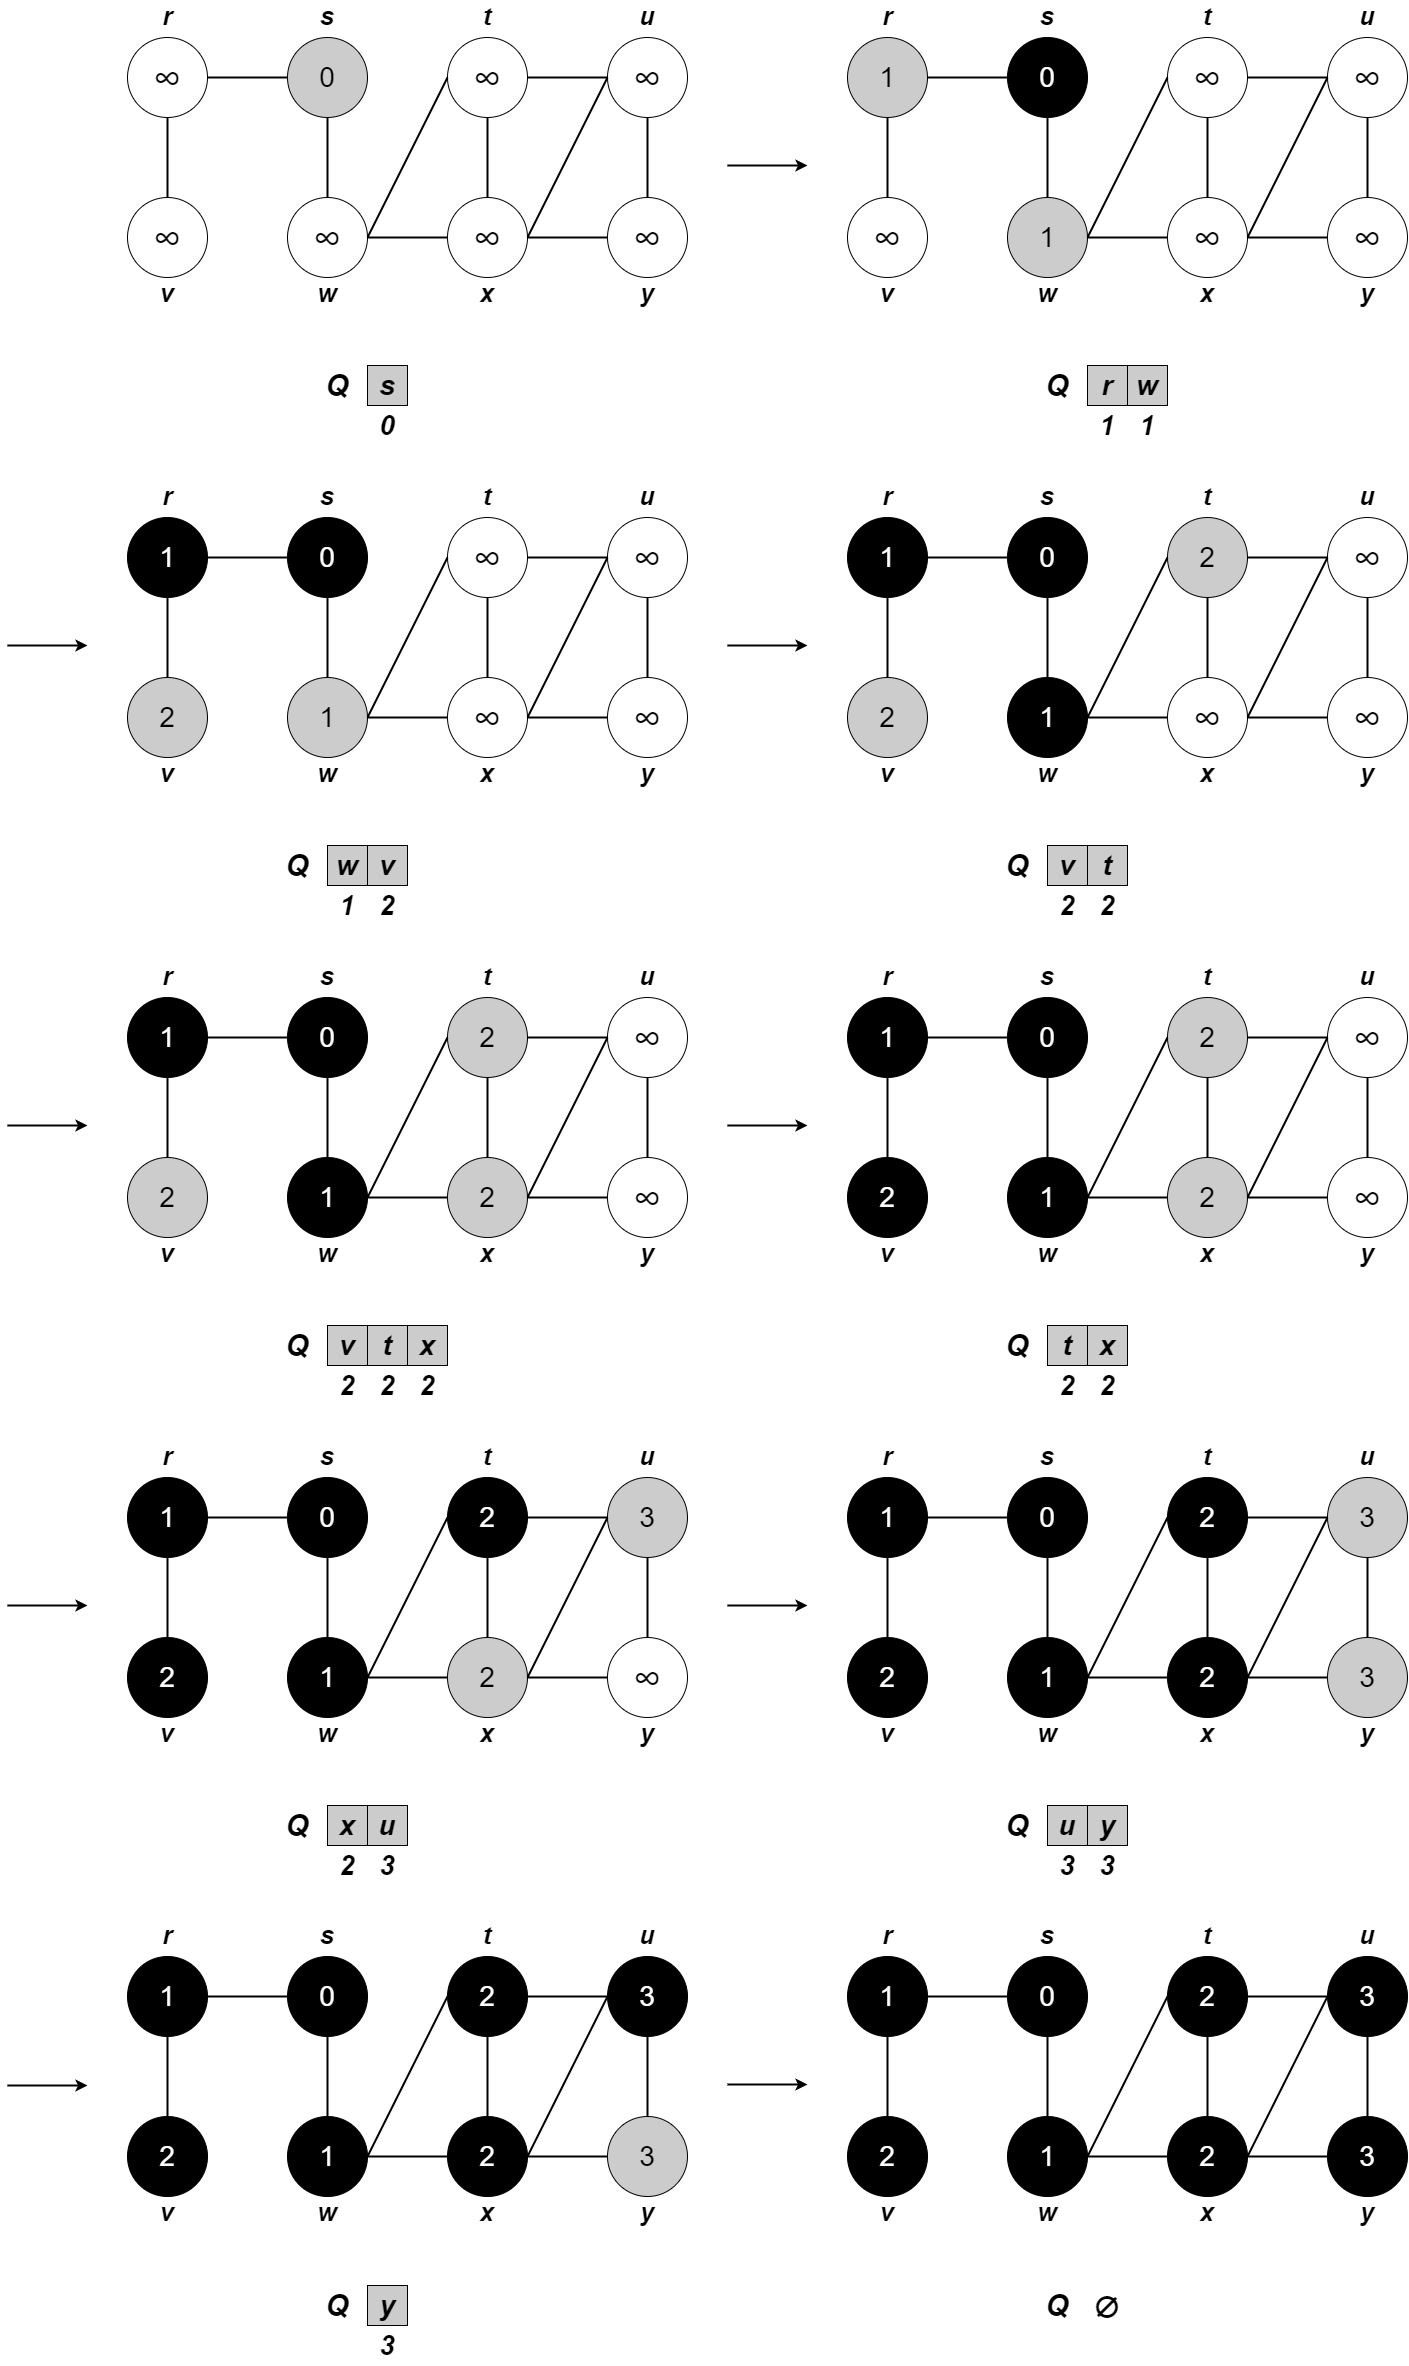
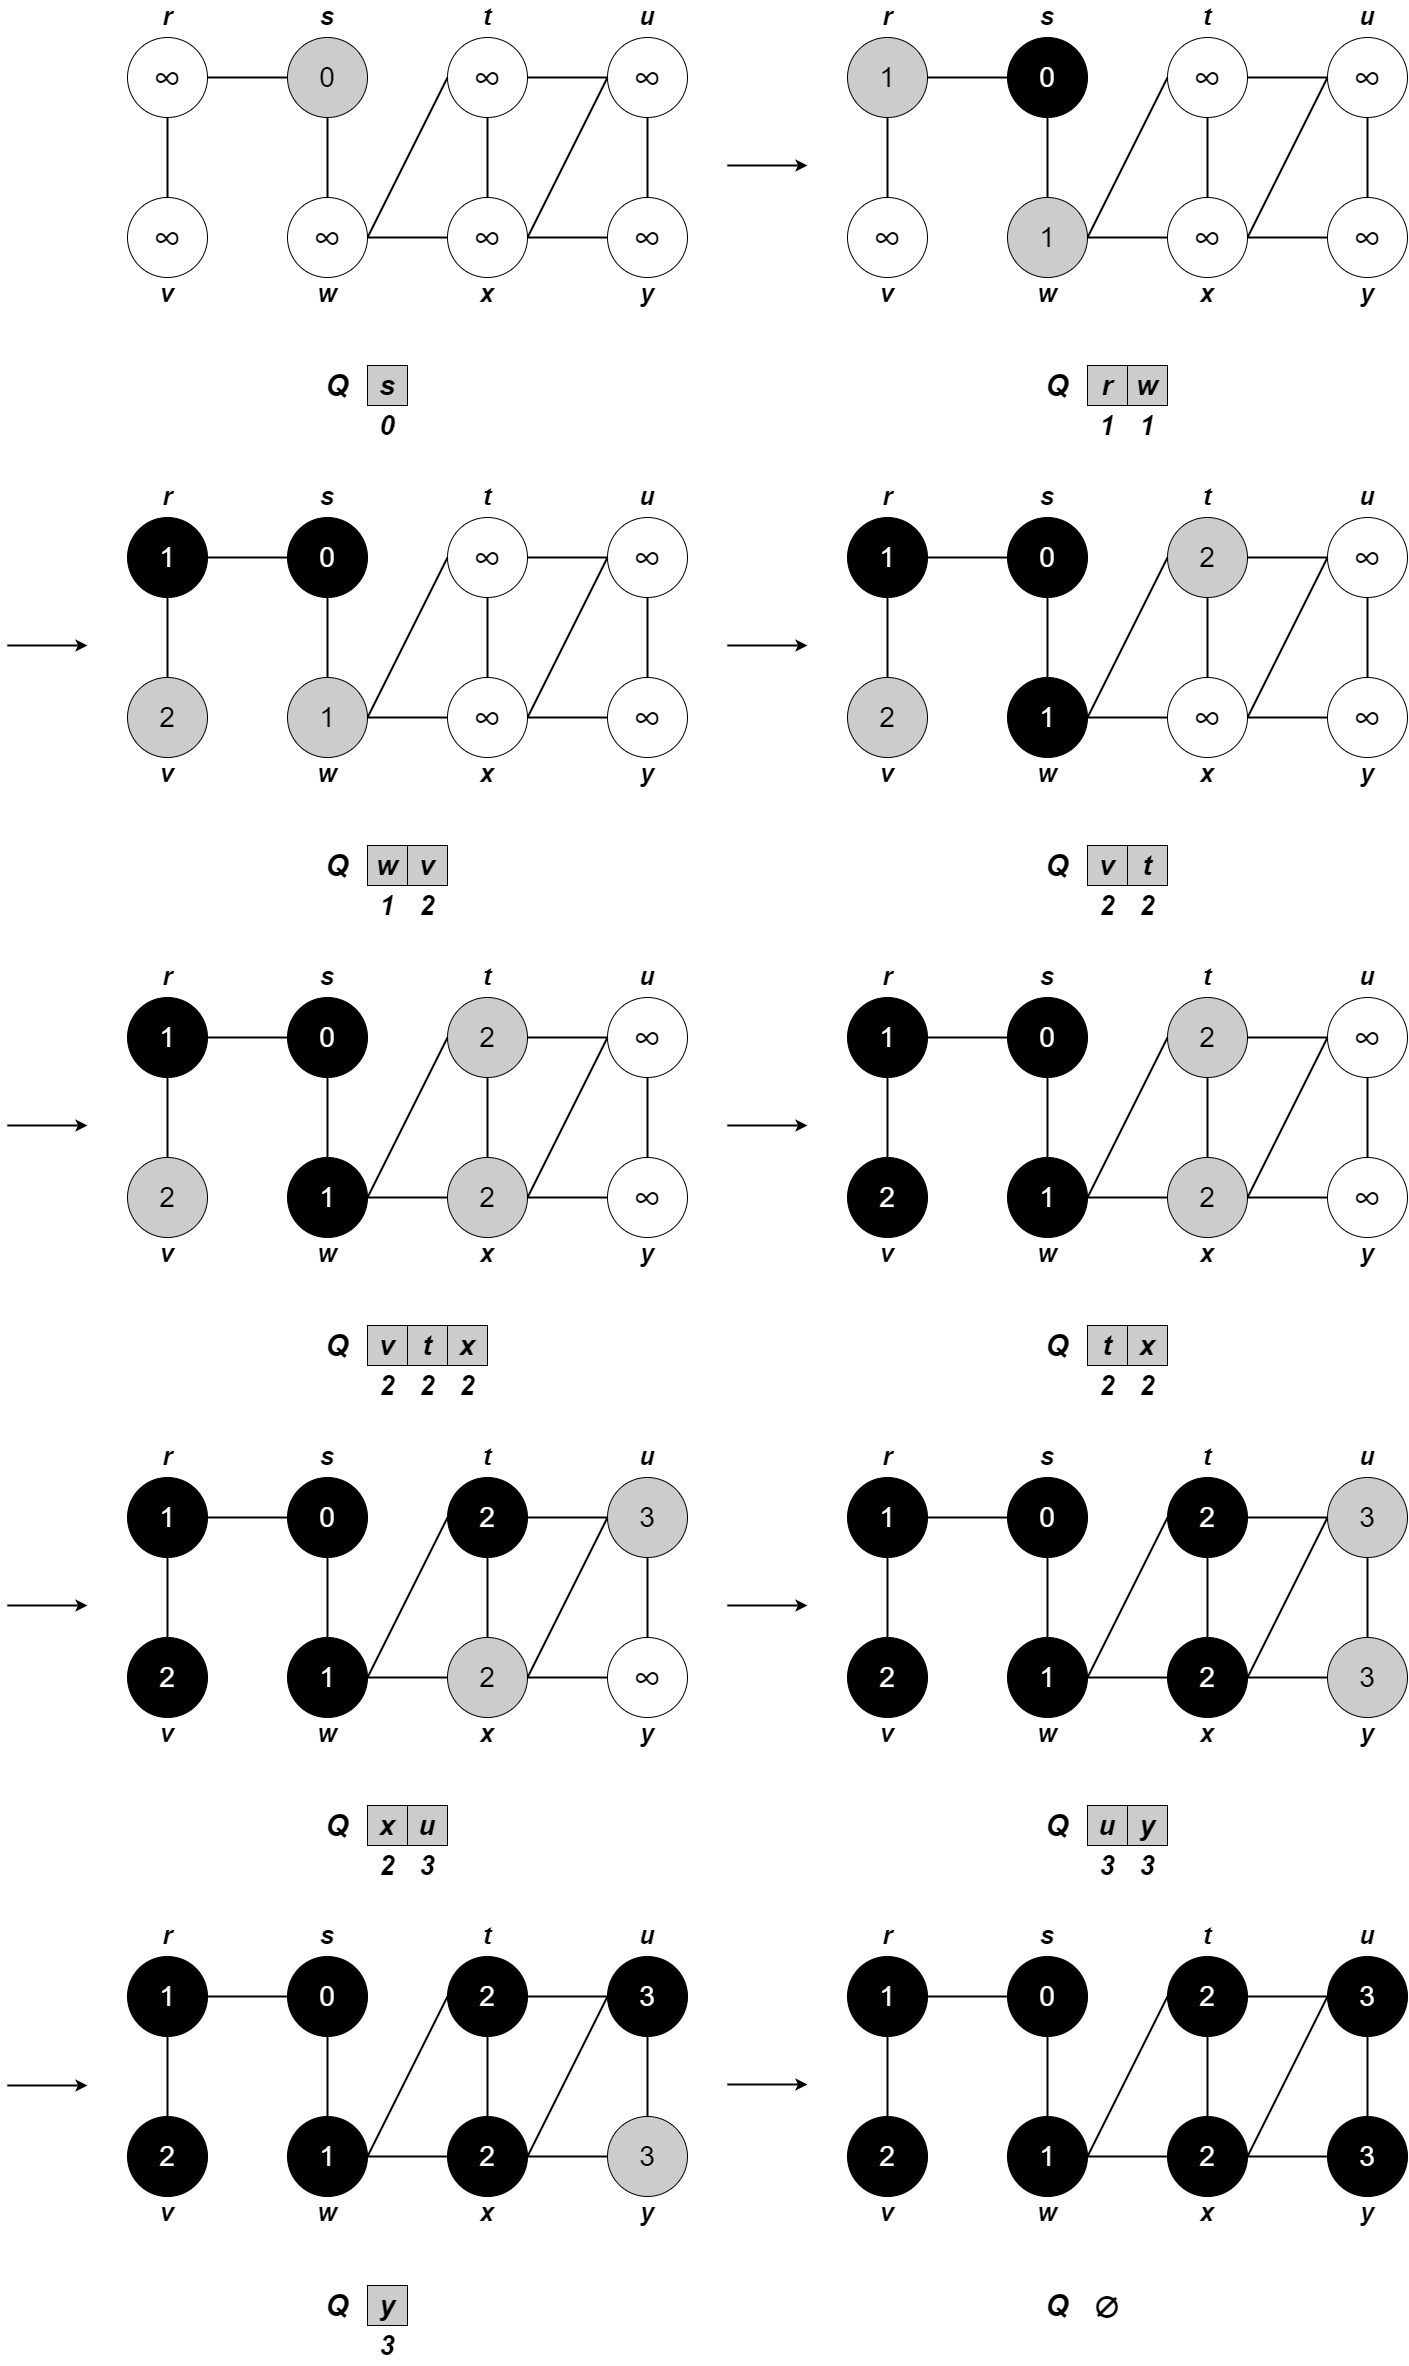
update

diff --git a/Week 13.md b/Week 13.md
@@ -197,4 +197,4 @@
     - **Use queue for gray vertices**
     - **Time complexity: *O(V+E)* (adjacency list)**
 - Graphic explanation:
-<br><img src="Week 13\BFS_graph.PNG" height="900px"/>
+<br><img src="Week 13\BFS_graph.PNG" height="1200px"/>
